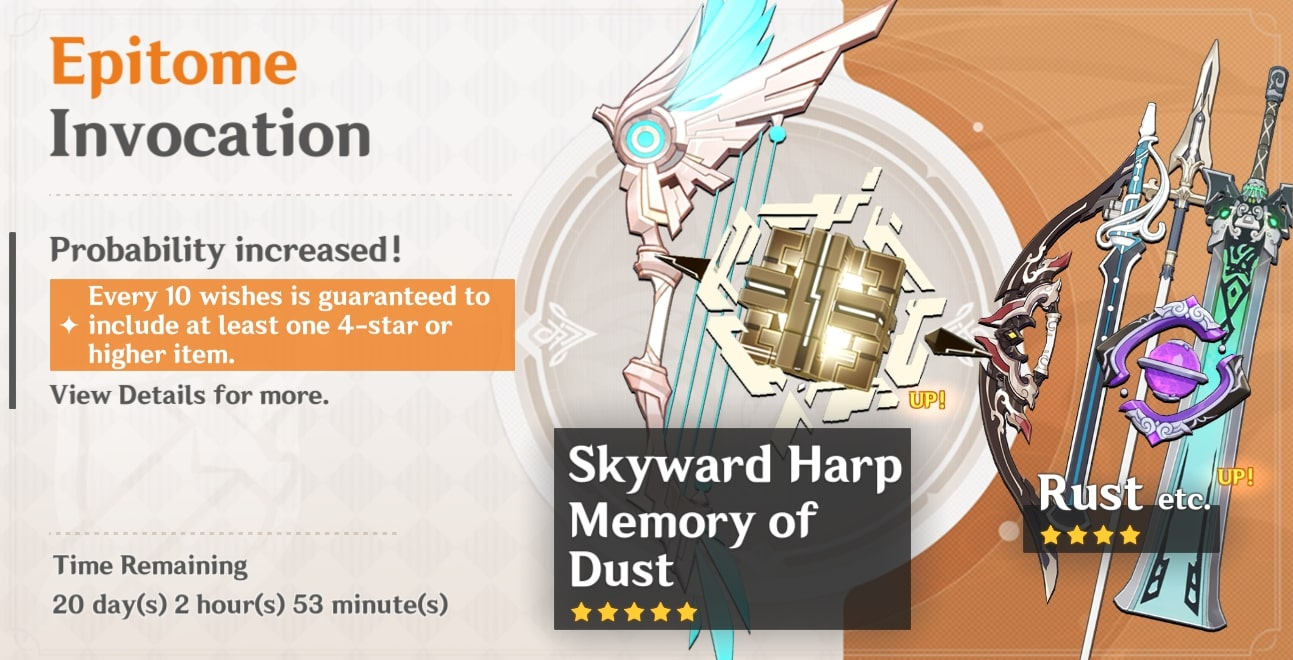
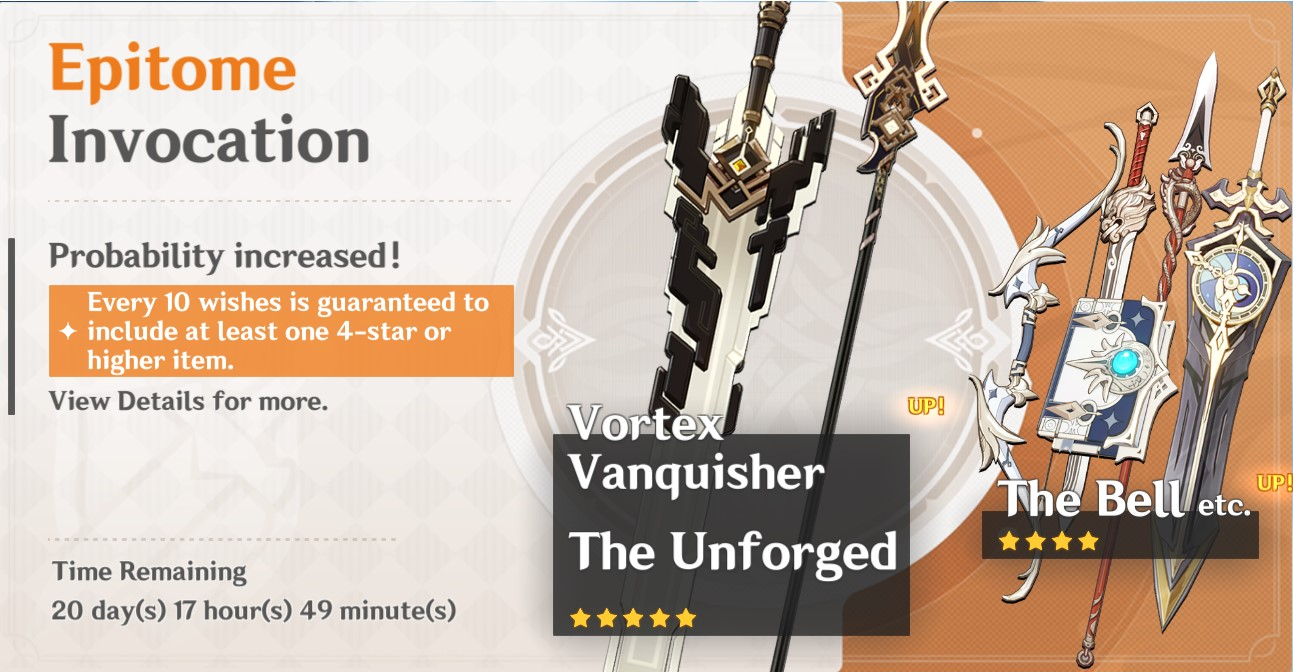
Genshin Update - NEW characters, weapons

diff --git a/src/resources/languages/lang.ts b/src/resources/languages/lang.ts
@@ -106,6 +106,8 @@ export enum Lang {
   Traveler_Geo = 'TravelerGeo',
   Venti = 'Venti',
   Keqing = 'Keqing',
+  Zhongli = 'Zhongli',
+  Xinyan = 'Xinyan',
   Xiao = 'Xiao',
   Lisa = 'Lisa',
   Kaeya = 'Kaeya',
@@ -174,6 +176,7 @@ export enum Lang {
 
   Wolfs_Gravestone = 'Wolfs_Gravestone',
   Skyward_Pride = 'Skyward_Pride',
+  The_Unforged = 'The_Unforged',
   Rainslasher = 'Rainslasher',
   Whiteblind = 'Whiteblind',
   The_Bell = 'The_Bell',
@@ -193,6 +196,7 @@ export enum Lang {
   Old_Mercs_Pal = 'Old_Mercs_Pal',
   Waster_Greatsword = 'Waster_Greatsword',
 
+  Vortex_Vanquisher = 'Vortex_Vanquisher',
   Kunwus_Iris_Rift = 'Kunwus_Iris_Rift',
   Primordial_Jade_Winged_Spear = 'Primordial_Jade_Winged_Spear',
   Skyward_Spine = 'Skyward_Spine',
